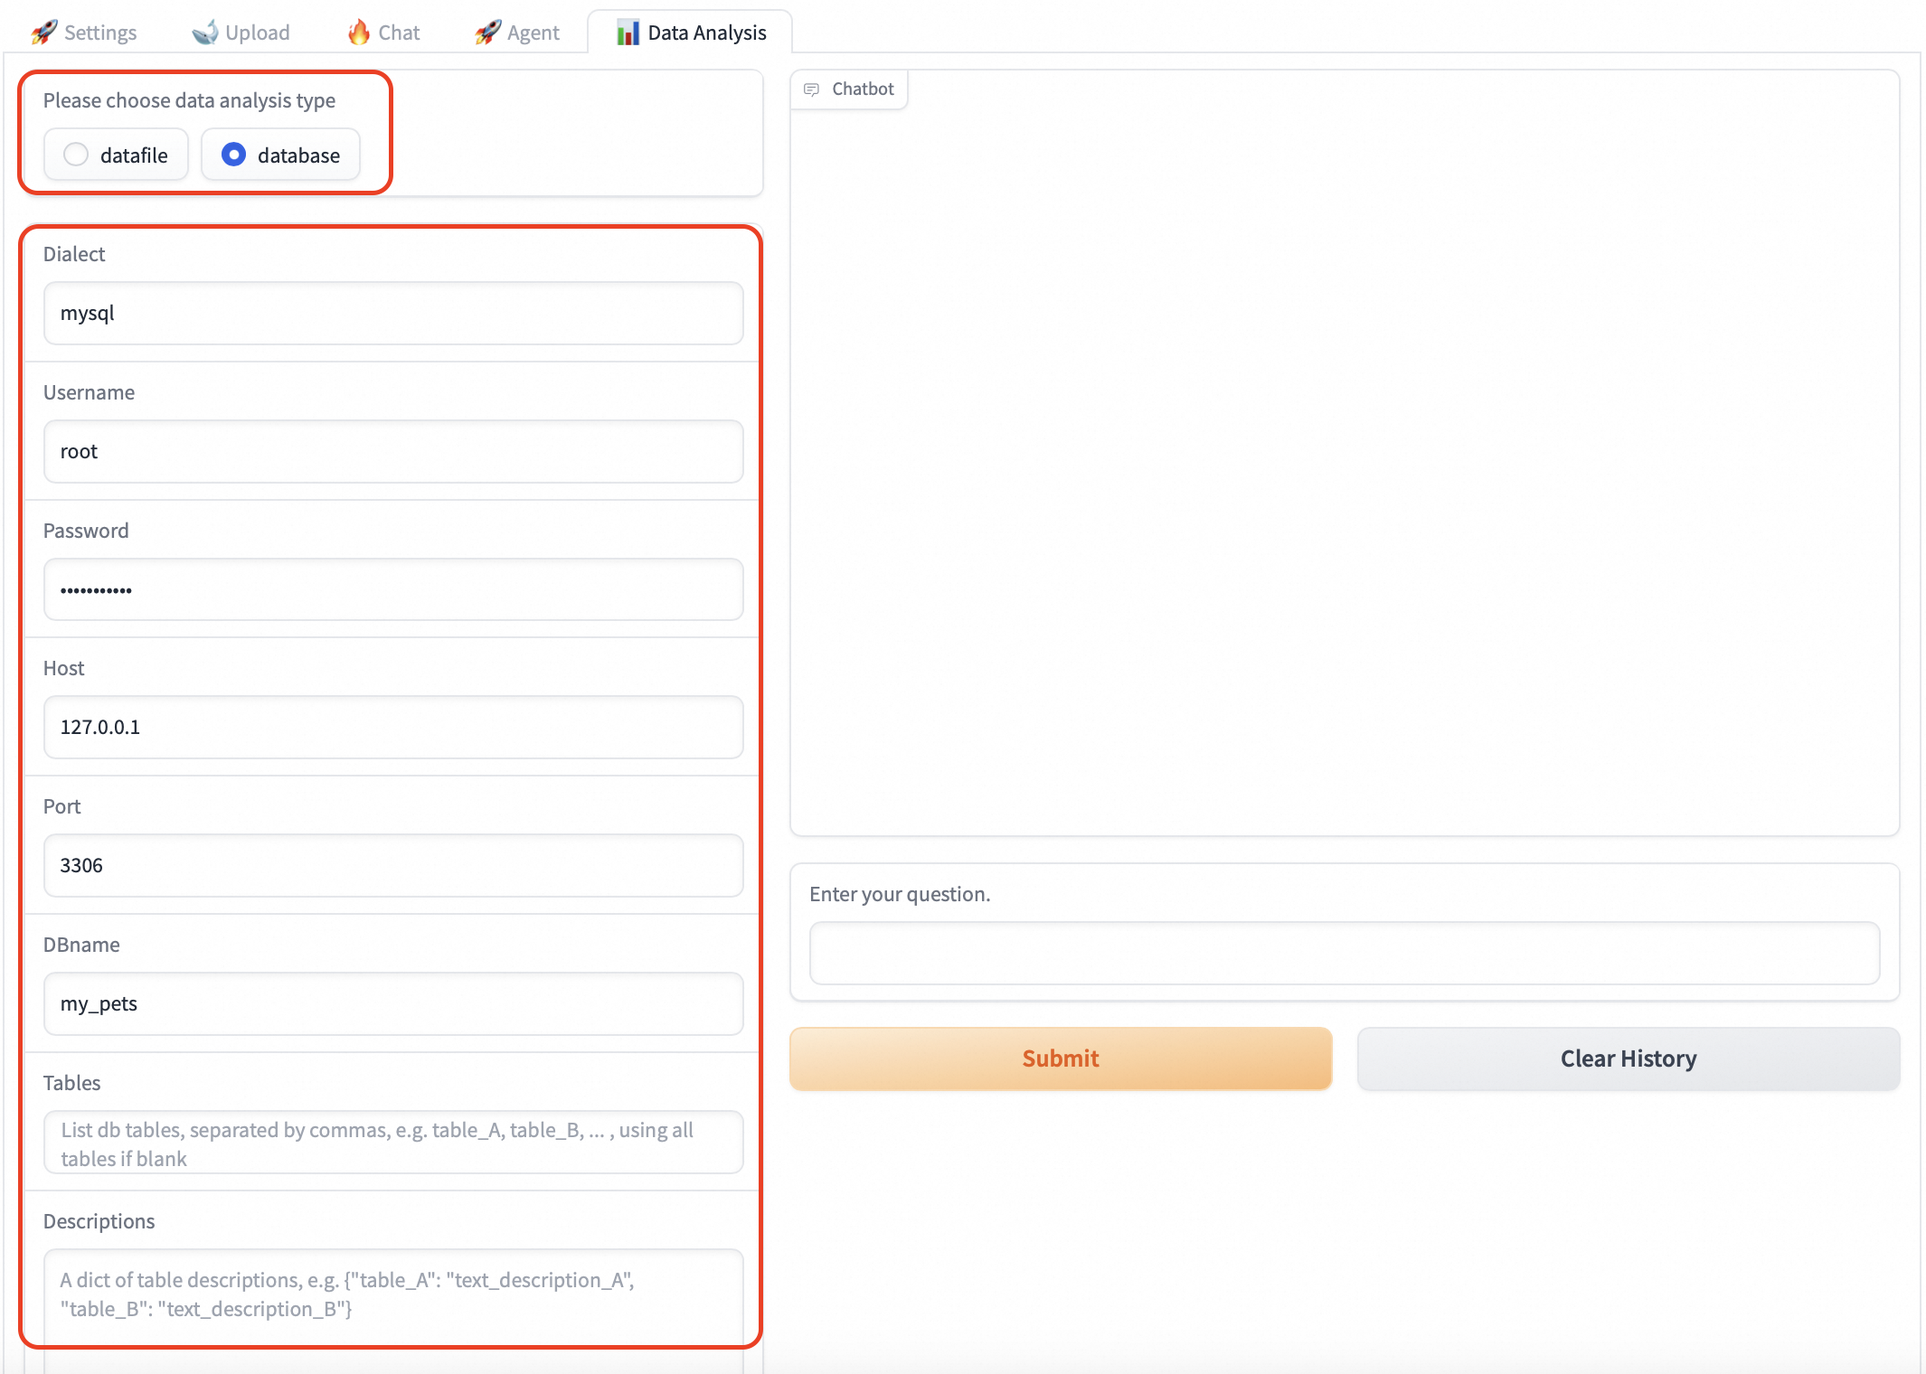
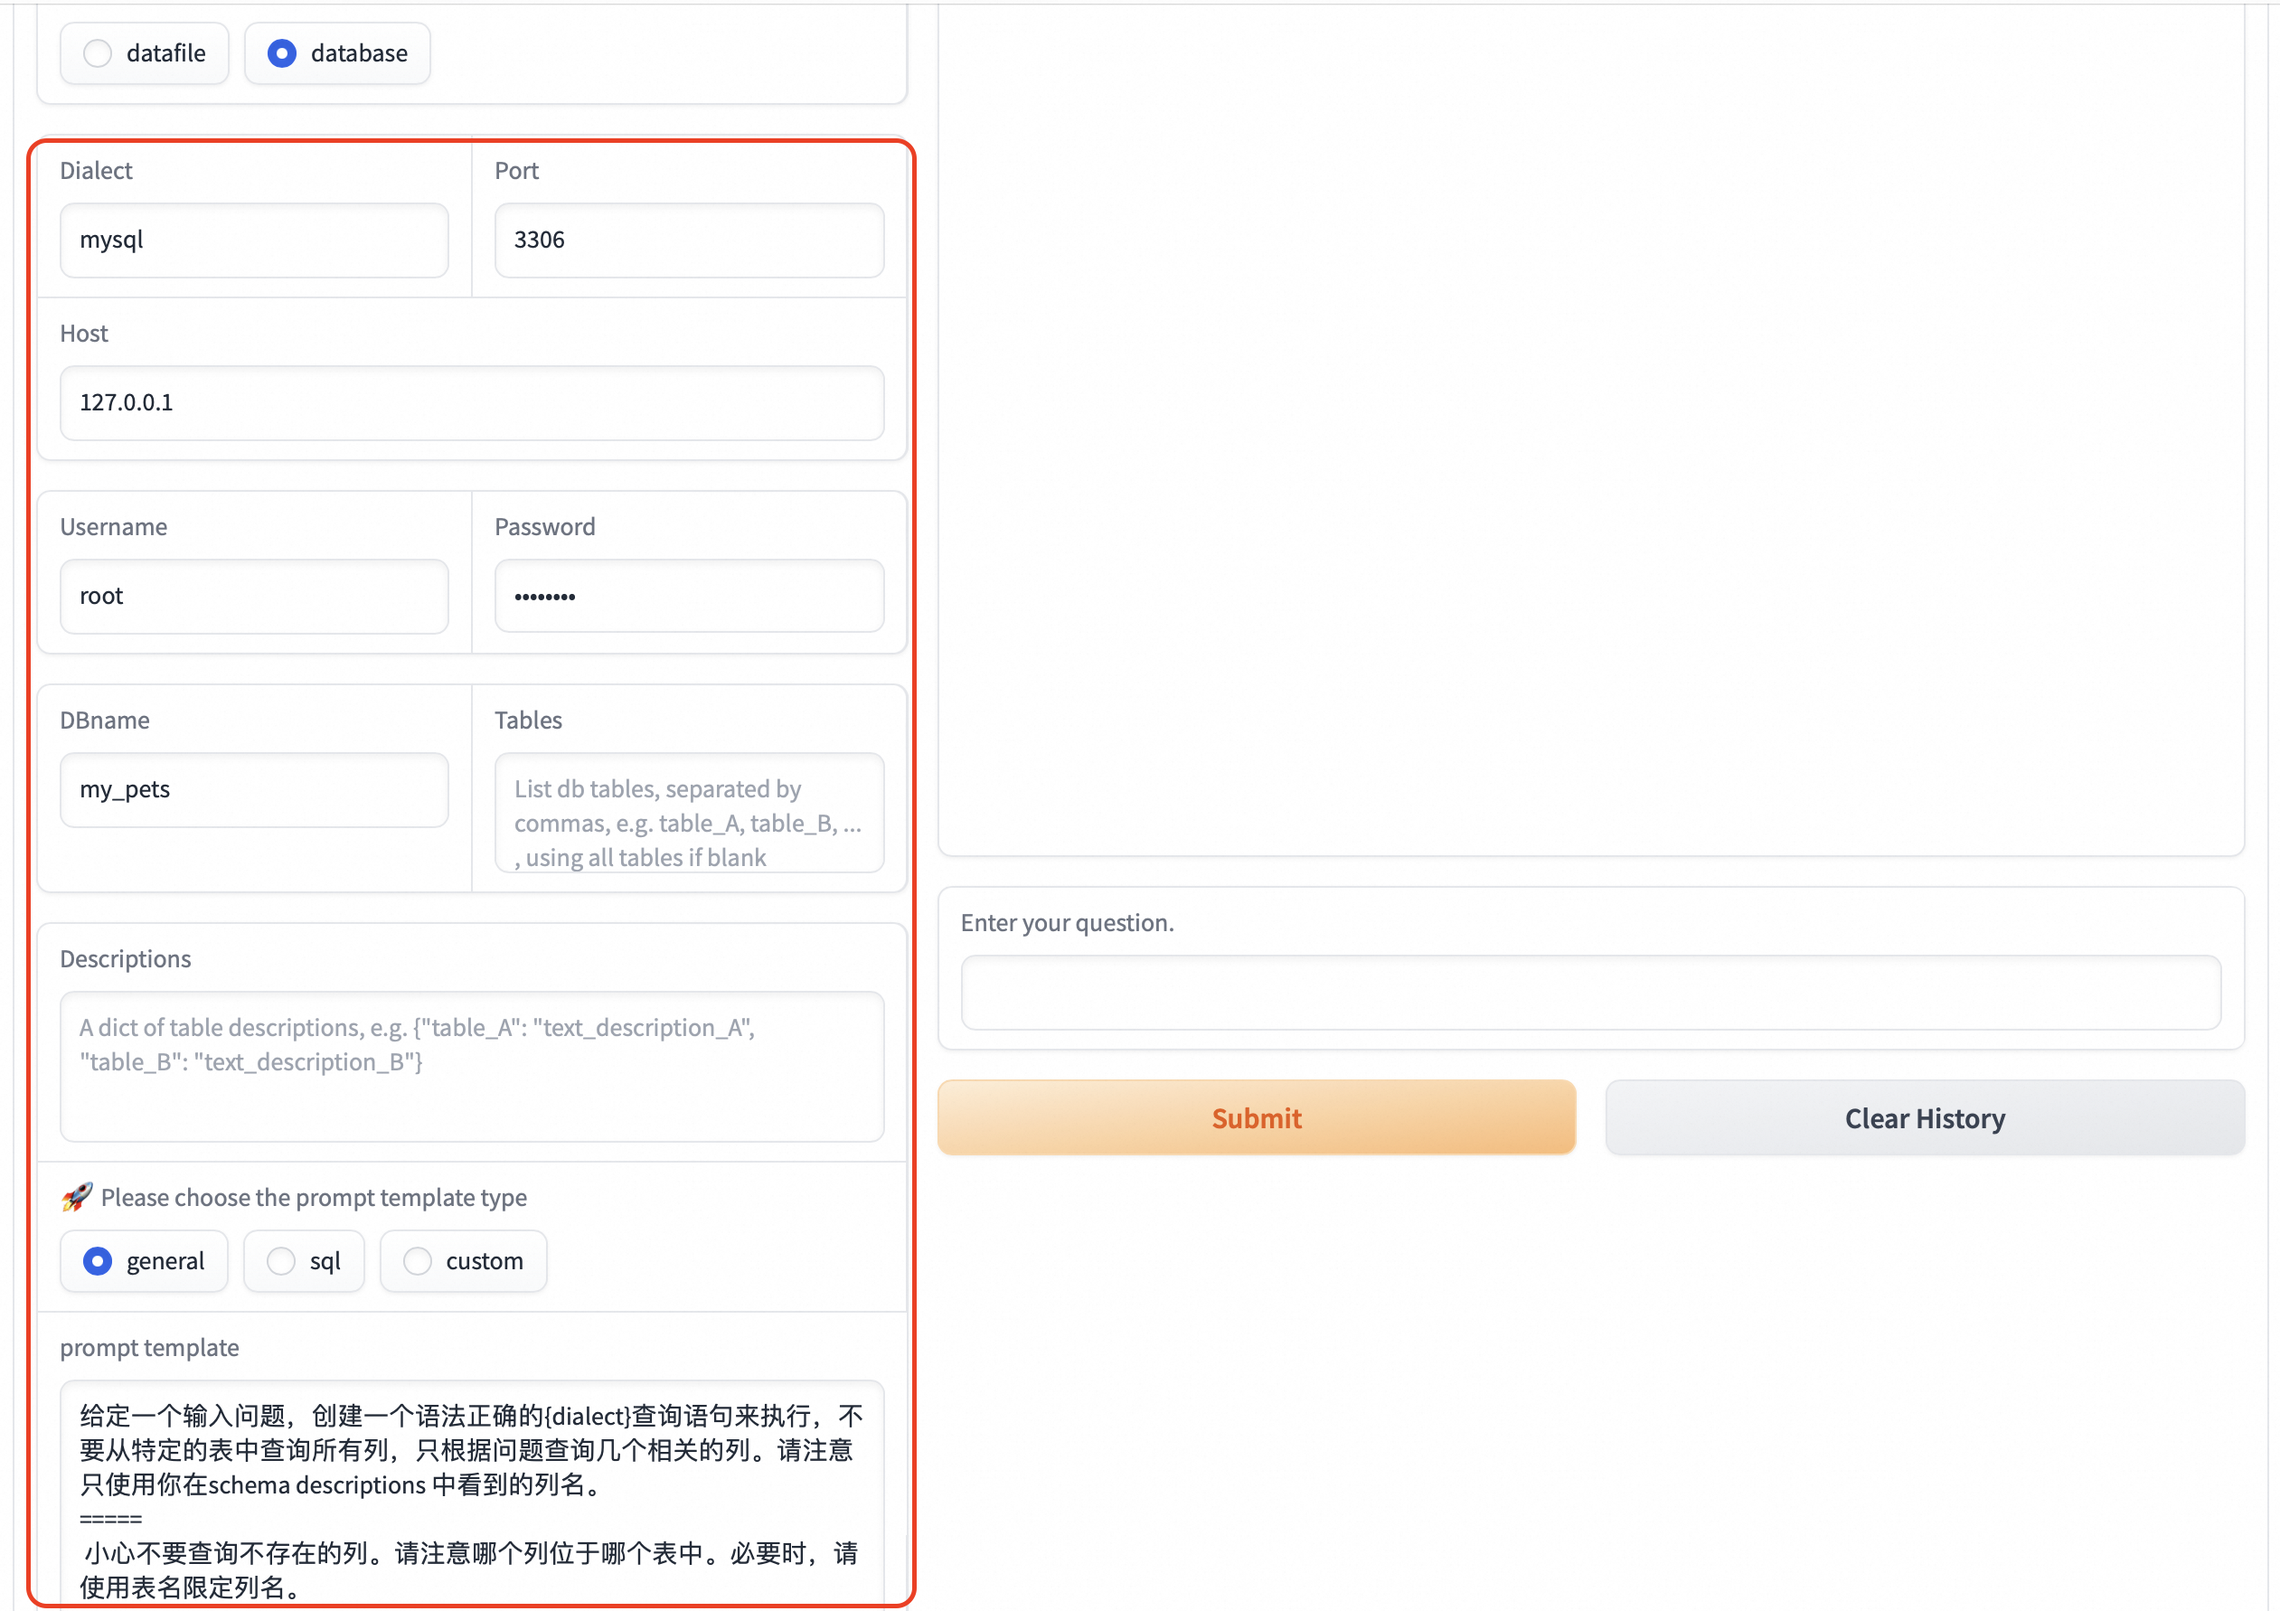
update data_analysis doc

diff --git a/docs/data_analysis_doc.md b/docs/data_analysis_doc.md
@@ -1,8 +1,8 @@
 # 模型配置
 
-在web界面 Settings 中，左侧下方选择需要的LLM，如果选择DashScope（通义API），推荐使用qwen-max模型；如果选择PaiEas开源部署，推荐使用qwen2-72b-instruct模型
+在web界面 Settings 中，选择需要的LLM，如果选择DashScope（通义API），推荐使用qwen-max模型；如果选择PaiEas开源部署，推荐使用qwen2-72b-instruct模型
 
-点击右侧button更新使用的模型
+点击下方Save更新使用的模型
 
 ![llm_selection](/docs/figures/data_analysis/llm_selection.png)
 
@@ -26,14 +26,19 @@
 - DBname为需要分析的目标数据库名称
 - Tables为需要分析的数据表，格式为：table_A, table_B,... ，默认为空，使用目标数据库中所有数据表
 - Descriptions为针对目标数据库中每张表的补充描述，比如对表中字段的进一步解释，可以提升数据分析效果，格式为：{"table_A":"字段a表示xxx，字段b数据的格式为yyy","table_B":"这张表主要用于zzz"}，注意：需要使用英文输入法下的字典格式（英文双引号，冒号，逗号），默认为空
+- 支持三种prompt template用于生成sql查询，点击选项后可以看到具体的prompt template，也可在custom中自定义
 
-填好以上信息后，点击左侧下方Connect Database按钮，看到Connection info如下图，表示连接成功，可以在右侧chatbot中进行提问
+**注意：** 如自定义prompt，请尽量参考template修改，其中中大括号{}的内容为输入参数，需要保留
 
-![db_connect](/docs/figures/data_analysis/db_connect.png)
+确认输入无误后，可直接在右侧chatbot中开始提问，回答结果的Reference中可以看到查询的数据库表名称，生成的sql语句，以及该sql语句是否有效执行。**注意：** 这里有效执行是指sql语句语法有效，不代表业务逻辑一定正确
 
-如果需要更新数据库，重新填写以上信息，点击Connect Dtabase即可
+Reference可以作为查询效果优化的"debug"工具
+
+![db_chat](/docs/figures/data_analysis/db_chat.png)
 
 ## 查询效果优化
+
+### Description
 
 针对数据表中字段含义不清晰，或者字段存储内容格式不清晰等问题，可以在Descriptions中增加相应描述，帮助llm更准确提取数据表内容，此处以公开数据集Spider中my_pets数据库为例，其中pets表数据如下：
 
@@ -45,11 +50,18 @@
 
 ![db_query_no_desc](/docs/figures/data_analysis/db_query_no_desc.png)
 
-增加简单描述后，生成的sql查询语句为：SELECT COUNT(\*) FROM pets WHERE PetType = 'Dog'，可以准确回答
+增加简单描述后，生成的sql查询语句为：SELECT COUNT(\*) FROM pets WHERE PetType = 'dog'，可以准确回答
 
 ![db_query_desc](/docs/figures/data_analysis/db_query_desc.png)
 
 如果查询效果有明显改善，可以将相应的补充描述在数据库中作为相应table或column的comment持久化添加
+
+### Prompt
+
+此外，还可以通过调整prompt template，优化查询效果
+
+- Reference观察到生成的sql语句包含了非sql的其他内容，如开头多了"sql"等（部分小模型可能会发生），可以在prompt中增加简单限制
+- Reference观察到生成的sql语句不满足某些业务逻辑，可以在prompt中给出示例，通过few-shot learning，也可以很快提升效果
 
 # 表格文件分析配置
 
